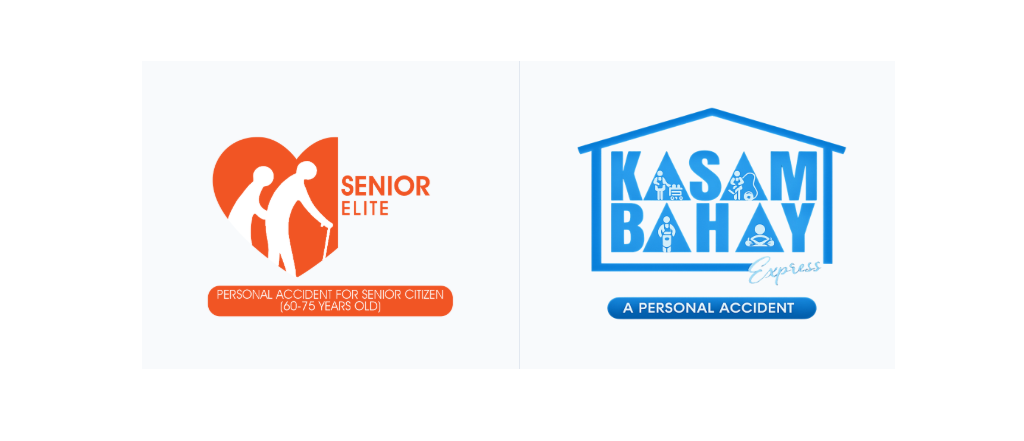
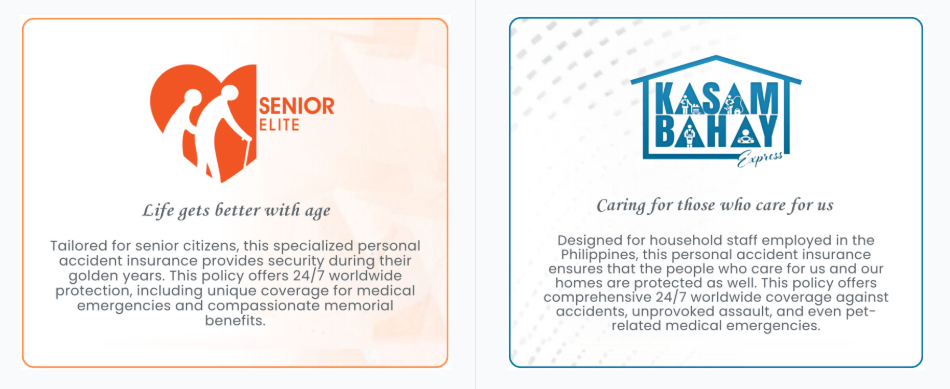
Updated pictures

diff --git a/src/pages/PromoProduct.tsx b/src/pages/PromoProduct.tsx
@@ -3,9 +3,9 @@ import Footer from "./components/Footer";
 import Reveal from "./components/Reveal";
 import { ArrowRight, ArrowLeft, Star } from "lucide-react";
 
-import productOffer1 from "../assets/images/promos/offer1.png";
-import productOffer2 from "../assets/images/promos/offer2.png";
-import productOffer3 from "../assets/images/promos/offer3.png";
+import productOffer1 from "../assets/images/promos/offer1.jpg";
+import productOffer2 from "../assets/images/promos/offer2.jpg";
+// import productOffer3 from "../assets/images/promos/offer3.png";
 
 // Family gift-giving photo — used as the hero background
 import giftGivingBg from "../assets/images/promos/yuletide.webp";
@@ -101,28 +101,18 @@ export default function PromoProduct() {
                     />
 
                     <div className="container mx-auto px-4 xl:px-12 relative z-10">
-                        <div className="grid grid-cols-1 sm:grid-cols-2 lg:grid-cols-3 gap-8 max-w-5xl mx-auto">
+                        <div className="grid grid-cols-1 sm:grid-cols-2 lg:grid-cols-2 gap-8 max-w-5xl mx-auto">
                             {/* Senior Elite */}
                             <Reveal delay={150}>
-                                <div className="relative flex flex-col items-center text-center h-full bg-white/95 backdrop-blur-sm border-2 border-[#e07b39] p-8 lg:p-10 shadow-lg">
-                                    <span
-                                        className="absolute -top-px -left-px px-3 py-1.5 text-[10px] font-bold tracking-[0.2em] uppercase text-[#312d60]"
-                                        style={{ backgroundColor: "#f2c14e" }}
-                                    >
-                                        New
-                                    </span>
-
+                                <div className="flex h-full flex-col items-center">
+                                    {/* The image is the whole card (logo, tagline and description are in it) */}
                                     <img
                                         src={productOffer2}
-                                        alt="Senior Elite"
-                                        className="h-50 object-contain mt-4"
+                                        alt="Senior Elite: Life gets better with age"
+                                        className="block h-100 w-full"
                                     />
-                                    <span className="mt-3 h-[3px] w-10 bg-[#f2c14e]" />
-
-                                    <p className="mt-3 italic text-slate-500 text-sm">
-                                        Life gets better with age
-                                    </p>
-                                    <p className="mt-2 text-sm text-slate-600 leading-relaxed flex-1">
+                                    {/* The card text lives inside the image, so keep it readable for screen readers and search engines */}
+                                    <p className="sr-only">
                                         Tailored for senior citizens, this
                                         specialized personal accident insurance
                                         provides security during their golden
@@ -135,7 +125,8 @@ export default function PromoProduct() {
                                         href="https://corporate-guarantee-personal-accident.webflow.io/home-senior-elite"
                                         target="_blank"
                                         rel="noopener noreferrer"
-                                        className="group mt-4 w-full max-w-xs inline-flex items-center justify-center gap-2 rounded-full bg-[#e07b39] px-6 py-3.5 text-sm font-bold uppercase tracking-wide text-white text-center transition-colors hover:bg-[#c46527]"
+                                        aria-label="Buy Senior Elite now"
+                                        className="group mt-4 inline-flex items-center justify-center gap-2 rounded-full bg-[#e07b39] px-8 py-3.5 text-sm font-bold uppercase tracking-wide text-white transition-colors hover:bg-[#c46527] focus:outline-none focus-visible:ring-2 focus-visible:ring-[#e07b39] focus-visible:ring-offset-2"
                                     >
                                         Buy Now
                                         <ArrowRight
@@ -148,27 +139,13 @@ export default function PromoProduct() {
 
                             {/* Kasambahay Express */}
                             <Reveal>
-                                <div className="relative flex flex-col items-center text-center h-full bg-white/95 backdrop-blur-sm border-2 border-[#2563a8] p-8 lg:p-10 shadow-lg">
-                                    {/* Gold holiday-offer ribbon */}
-                                    <span
-                                        className="absolute -top-px -left-px px-3 py-1.5 text-[10px] font-bold tracking-[0.2em] uppercase text-[#312d60]"
-                                        style={{ backgroundColor: "#f2c14e" }}
-                                    >
-                                        New
-                                    </span>
-
+                                <div className="flex h-full flex-col items-center">
                                     <img
                                         src={productOffer1}
-                                        alt="Kasambahay Express"
-                                        className="h-50 object-contain mt-4"
+                                        alt="Kasambahay Express: Caring for those who care for us"
+                                        className="block h-100 w-full"
                                     />
-                                    {/* Thin gold accent under the logo */}
-                                    <span className="mt-3 h-[3px] w-10 bg-[#f2c14e]" />
-
-                                    <p className="mt-3 italic text-slate-500 text-sm">
-                                        Caring for those who care for us
-                                    </p>
-                                    <p className="mt-2 text-sm text-slate-600 leading-relaxed flex-1">
+                                    <p className="sr-only">
                                         Designed for household staff employed in
                                         the Philippines, this personal accident
                                         insurance ensures that the people who
@@ -183,7 +160,8 @@ export default function PromoProduct() {
                                         href="https://corporate-guarantee-personal-accident.webflow.io/"
                                         target="_blank"
                                         rel="noopener noreferrer"
-                                        className="group mt-4 w-full max-w-xs inline-flex items-center justify-center gap-2 rounded-full bg-[#2563a8] px-6 py-3.5 text-sm font-bold uppercase tracking-wide text-white text-center transition-colors hover:bg-[#1d4d85]"
+                                        aria-label="Buy Kasambahay Express now"
+                                        className="group mt-4 inline-flex items-center justify-center gap-2 rounded-full bg-[#2563a8] px-8 py-3.5 text-sm font-bold uppercase tracking-wide text-white transition-colors hover:bg-[#1d4d85] focus:outline-none focus-visible:ring-2 focus-visible:ring-[#2563a8] focus-visible:ring-offset-2"
                                     >
                                         Buy Now
                                         <ArrowRight
@@ -193,37 +171,35 @@ export default function PromoProduct() {
                                     </a>
                                 </div>
                             </Reveal>
+                            {/*
+    <Reveal delay={300}>
+        <div className="relative flex flex-col items-center text-center h-full bg-slate-50/95 backdrop-blur-sm border-2 border-slate-300 p-8 lg:p-10 shadow-lg overflow-hidden">
+            <span className="absolute -top-px -left-px px-3 py-1.5 text-[10px] font-bold tracking-[0.2em] uppercase text-white bg-slate-500">
+                Coming Soon
+            </span>
 
-                            {/* Golfer's Shield — coming soon, dimmed/inactive treatment */}
-                            <Reveal delay={300}>
-                                <div className="relative flex flex-col items-center text-center h-full bg-slate-50/95 backdrop-blur-sm border-2 border-slate-300 p-8 lg:p-10 shadow-lg overflow-hidden">
-                                    {/* Coming Soon ribbon — gray, not gold, to visually read as "inactive" */}
-                                    <span className="absolute -top-px -left-px px-3 py-1.5 text-[10px] font-bold tracking-[0.2em] uppercase text-white bg-slate-500">
-                                        Coming Soon
-                                    </span>
+            <img
+                src={productOffer3}
+                alt="Golfer's Shield — coming soon"
+                className="h-50 object-contain mt-4 grayscale opacity-60"
+            />
+            <span className="mt-3 h-[3px] w-10 bg-slate-300" />
 
-                                    <img
-                                        src={productOffer3}
-                                        alt="Golfer's Shield — coming soon"
-                                        className="h-50 object-contain mt-4 grayscale opacity-60"
-                                    />
-                                    <span className="mt-3 h-[3px] w-10 bg-slate-300" />
+            <p className="mt-3 italic text-slate-400 text-sm">
+                Coming Soon
+            </p>
+            <p className="mt-2 text-sm text-slate-500 leading-relaxed flex-1">
+                Coming Soon
+            </p>
 
-                                    <p className="mt-3 italic text-slate-400 text-sm">
-                                        Coming Soon
-                                    </p>
-                                    <p className="mt-2 text-sm text-slate-500 leading-relaxed flex-1">
-                                        Coming Soon
-                                    </p>
-
-                                    <span
-                                        className="mt-4 w-full max-w-xs inline-flex items-center justify-center gap-2 rounded-full bg-slate-300 px-6 py-3.5 text-sm font-bold uppercase tracking-wide text-slate-600 text-center cursor-not-allowed select-none"
-                                        aria-disabled="true"
-                                    >
-                                        Coming Soon
-                                    </span>
-                                </div>
-                            </Reveal>
+            <span
+                className="mt-4 w-full max-w-xs inline-flex items-center justify-center gap-2 rounded-full bg-slate-300 px-6 py-3.5 text-sm font-bold uppercase tracking-wide text-slate-600 text-center cursor-not-allowed select-none"
+                aria-disabled="true"
+            >
+                Coming Soon
+            </span>
+        </div>
+    </Reveal> */}
                         </div>
                     </div>
 

diff --git a/src/pages/components/HeroCarousel.tsx b/src/pages/components/HeroCarousel.tsx
@@ -1,14 +1,69 @@
 import { useState, useEffect, useCallback } from "react";
 
+interface Slide {
+    src: string;
+    alt: string;
+    cta?: { label: string; href: string }; // optional per-slide button
+}
+
 // Slide images — served directly from /public/images/
-const slides = [
-    { src: "/images/collage.png", alt: "Corporate Guarantee — slide 1" },
-    { src: "/images/newslider1.png", alt: "Corporate Guarantee — slide 2" },
-    { src: "/images/slider2.jpg", alt: "Corporate Guarantee — slide 3" },
-    { src: "/images/slider3.jpg", alt: "Corporate Guarantee — slide 4" },
-    { src: "/images/slider4.jpg", alt: "Corporate Guarantee — slide 5" },
-    { src: "/images/slider5.jpg", alt: "Corporate Guarantee — slide 6" },
-    { src: "/images/slider6.jpg", alt: "Corporate Guarantee — slide 7" },
+const slides: Slide[] = [
+    {
+        src: "/images/collage.jpg",
+        alt: "Corporate Guarantee — slide 1",
+        cta: {
+            label: "Buy Now",
+            href: "/products/online-products",
+        },
+    },
+    {
+        src: "/images/newslider1.png",
+        alt: "Corporate Guarantee — slide 2",
+        cta: {
+            label: "Learn More",
+            href: "#",
+        },
+    },
+    {
+        src: "/images/slider2.jpg",
+        alt: "Corporate Guarantee — slide 3",
+        cta: {
+            label: "Learn More",
+            href: "#",
+        },
+    },
+    {
+        src: "/images/slider3.jpg",
+        alt: "Corporate Guarantee — slide 4",
+        cta: {
+            label: "Learn More",
+            href: "#",
+        },
+    },
+    {
+        src: "/images/slider4.jpg",
+        alt: "Corporate Guarantee — slide 5",
+        cta: {
+            label: "Learn More",
+            href: "#",
+        },
+    },
+    {
+        src: "/images/slider5.jpg",
+        alt: "Corporate Guarantee — slide 6",
+        cta: {
+            label: "Learn More",
+            href: "#",
+        },
+    },
+    {
+        src: "/images/slider6.jpg",
+        alt: "Corporate Guarantee — slide 7",
+        cta: {
+            label: "Learn More",
+            href: "#",
+        },
+    },
 ];
 
 const AUTOPLAY_MS = 5000;
@@ -53,6 +108,19 @@ export default function HeroCarousel() {
                         alt={slide.alt}
                         className="absolute block w-full h-full object-cover -translate-x-1/2 -translate-y-1/2 top-1/2 left-1/2"
                     />
+
+                    {/* Per-slide CTA — bottom center, sits above the indicator dots */}
+                    {slide.cta && (
+                        <a
+                            href={slide.cta.href}
+                            tabIndex={i === current ? 0 : -1}
+                            className={`absolute left-1/2 -translate-x-1/2 bottom-9 md:bottom-14 inline-flex items-center justify-center whitespace-nowrap bg-[#d93338] px-4 py-1.5 md:px-8 md:py-3 text-[10px] md:text-sm font-bold uppercase tracking-wide text-white shadow-lg transition-colors hover:bg-[#b8232c] ${
+                                i === current ? "" : "pointer-events-none"
+                            }`}
+                        >
+                            {slide.cta.label}
+                        </a>
+                    )}
                 </div>
             ))}
 

diff --git a/src/pages/components/PromoModal.tsx b/src/pages/components/PromoModal.tsx
@@ -121,7 +121,7 @@ export default function PromoModal({ promos }: PromoModalProps) {
                                 </span>
                                 .
                             </p>
-                            <span className="inline-flex items-center gap-2 mt-1.5 sm:mt-0 text-[9px] sm:text-[11px] font-bold tracking-[0.15em] sm:tracking-[0.3em] uppercase text-[#f2c14e]">
+                            <span className="inline-flex items-center gap-2 mt-1.5 sm:mt-0 text-[9px] sm:text-[18px] font-bold tracking-[0.15em] sm:tracking-[0.2em] text-[#f2c14e]">
                                 Online Products, Now Available!
                             </span>
                         </div>
@@ -138,13 +138,13 @@ export default function PromoModal({ promos }: PromoModalProps) {
                                 >
                                     {/* Product image — compact on mobile so two columns fit without crowding */}
                                     <div
-                                        className="relative w-full h-70 sm:h-100 overflow-hidden bg-slate-50 flex items-center justify-center p-2 sm:p-4 border-t-4"
+                                        className="relative w-full h-70 sm:h-80 overflow-hidden bg-slate-50 flex items-center justify-center p-2 sm:p-4 border-t-4"
                                         style={{ borderTopColor: "#f2c14e" }}
                                     >
                                         <img
                                             src={promo.image}
                                             alt={promo.alt}
-                                            className="w-full h-full object-cover transition-transform duration-500 select-none"
+                                            className="w-full h-full object-contain transition-transform duration-500 select-none"
                                             draggable={false}
                                         />
                                         {promo.eyebrow && (

diff --git a/src/pages/Home.tsx b/src/pages/Home.tsx
@@ -21,8 +21,8 @@ import {
 // Animations
 import Reveal from "./components/Reveal";
 
-import productOffer1 from "../assets/images/promos/senior.png";
-import productOffer2 from "../assets/images/promos/kasambahay.png";
+import productOffer1 from "../assets/images/promos/offer1.jpg";
+import productOffer2 from "../assets/images/promos/offer2.jpg";
 
 export default function Home() {
     const products = getVisibleProducts();
